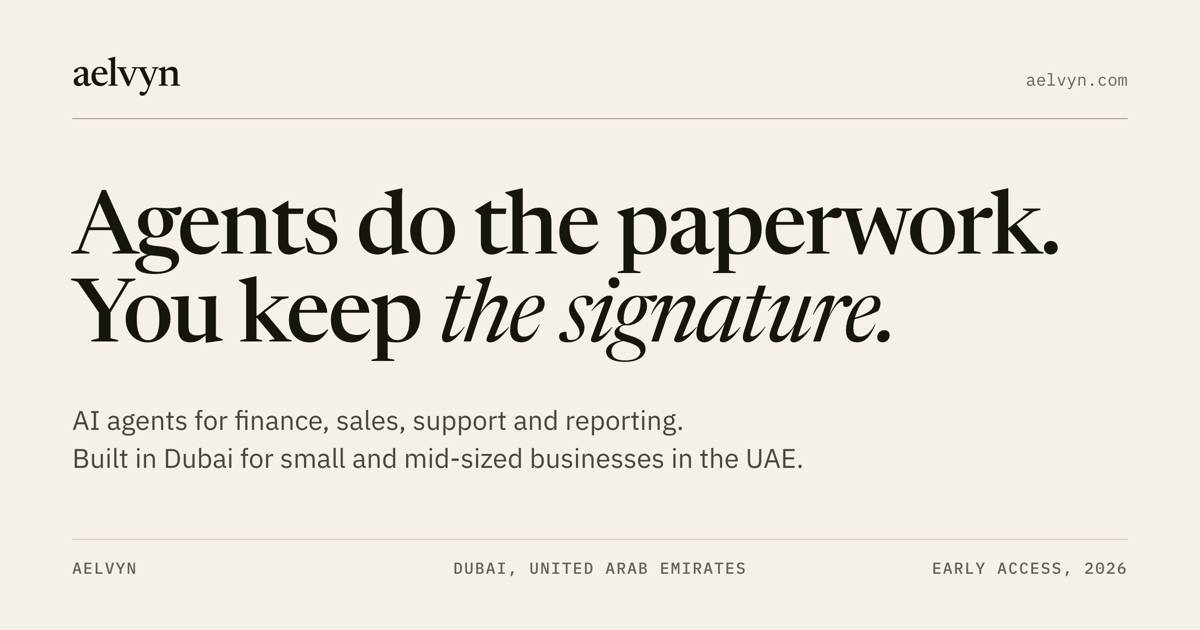
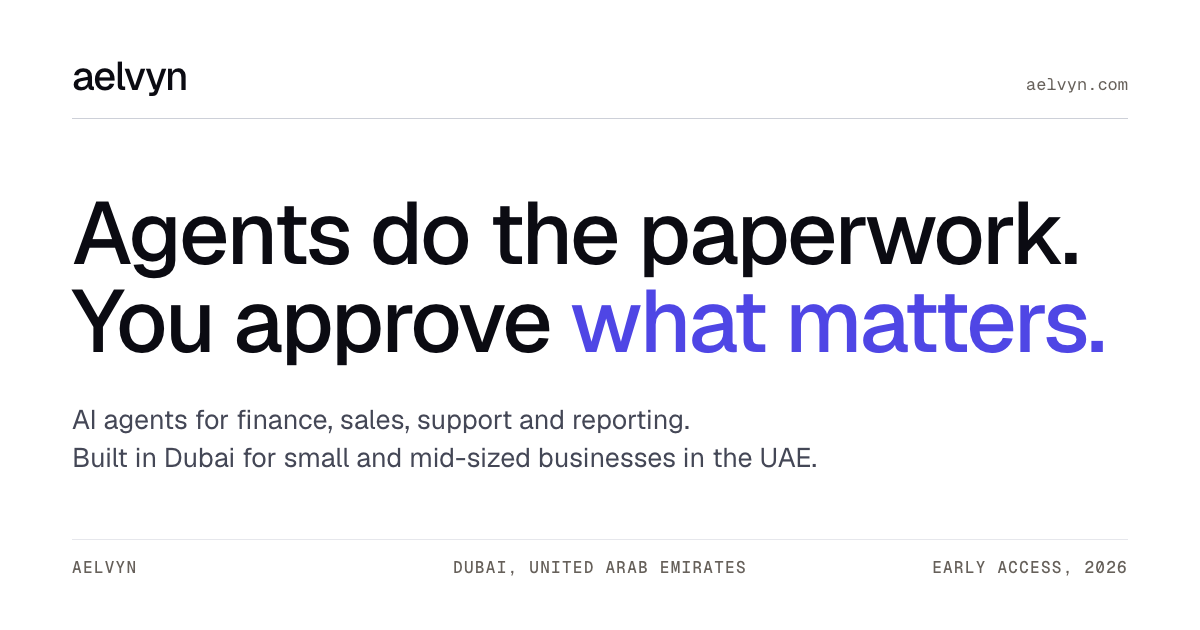
Restyle site to clean white and indigo
Replace the cream paper, serif and italic treatment with a white background,
Geist sans throughout, cool greys and Aelvyn indigo as the single accent.
Product previews become rounded software cards, the logo mark returns to the
header, and the hero now reads 'Agents do the paperwork. You approve what
matters.' Brand and social images re-rendered to match.

diff --git a/styles.css b/styles.css
@@ -1,25 +1,25 @@
 /* Aelvyn, aelvyn.com. One stylesheet for every page.
-   Direction: an editorial ledger. Warm paper, deep ink, a display serif, hairline rules, numbered entries.
-   Rules are the only containers. No shadows, no gradients, no icons, no cards. */
+   Direction: clean white and indigo. One sans family (Geist), cool greys, Aelvyn indigo as the only accent,
+   numbered sections and hairline rules for structure, product previews set as real software cards. */
 
 :root {
   /* PAPER (surfaces). Three values do all the elevation. No shadows, no gradients, no tints as decoration. */
-  --paper:    #F5F1EA; /* page background on every page. Warm, not yellow. */
-  --paper-2:  #EDE7DB; /* recessed band: sections 05 and 09, table header rows, form field backgrounds, blog row hover */
-  --paper-3:  #FBF9F5; /* raised sheet: the invoice document, the support reply card, the form sheet, the map frame */
+  --paper:    #FFFFFF; /* page background on every page. Warm, not yellow. */
+  --paper-2:  #F6F7F9; /* recessed band: sections 05 and 09, table header rows, form field backgrounds, blog row hover */
+  --paper-3:  #FFFFFF; /* raised sheet: the invoice document, the support reply card, the form sheet, the map frame */
 
   /* INK (text). */
-  --ink:      #17150F; /* headings, primary text, the section 03 background.      15.8:1 on paper */
-  --ink-2:    #4A463F; /* body copy.                                               9.2:1 on paper */
-  --ink-3:    #5A544E; /* mono labels, captions, eyebrows, footer small print.     6.6:1 on paper, 6.1:1 on paper-2, 7.1:1 on paper-3. Never below 12px. Never for paragraphs. */
-  --on-ink:   #F5F1EA; /* text on the ink section (the paper colour, so the inversion reads as the same sheet turned over) */
-  --on-ink-2: #BDB6A5; /* secondary text on ink.                                   7.8:1 on ink */
-  --ink-rule: #2A2721; /* hairlines on the ink section */
+  --ink:      #0B0B12; /* headings, primary text, the section 03 background.      15.8:1 on paper */
+  --ink-2:    #444756; /* body copy.                                               9.2:1 on paper */
+  --ink-3:    #5D6070; /* mono labels, captions, eyebrows, footer small print.     6.6:1 on paper, 6.1:1 on paper-2, 7.1:1 on paper-3. Never below 12px. Never for paragraphs. */
+  --on-ink:   #FFFFFF; /* text on the ink section (the paper colour, so the inversion reads as the same sheet turned over) */
+  --on-ink-2: #B4B7C6; /* secondary text on ink.                                   7.8:1 on ink */
+  --ink-rule: #262838; /* hairlines on the ink section */
 
   /* RULES. The only container on the site. */
-  --rule:        #D8D0C2; /* 1px hairlines between rows, inside tables, under head rows */
-  --rule-strong: #A89F8F; /* 1px under the header, above the footer, the sheet frame, link underlines */
-  --field-border: #8C836F; /* form field borders only: 3.3:1 on paper, 3.6:1 on paper-3, so the field edge meets WCAG 1.4.11 */
+  --rule:        #E6E7EC; /* 1px hairlines between rows, inside tables, under head rows */
+  --rule-strong: #CDD0D8; /* 1px under the header, above the footer, the sheet frame, link underlines */
+  --field-border: #8A8E9C; /* form field borders only: 3.3:1 on paper, 3.6:1 on paper-3, so the field edge meets WCAG 1.4.11 */
 
   /* ACCENT. THE COLOUR RULE: one deep ink blue, and it appears only where a person decides or must look.
      Permitted uses, and no others:
@@ -32,19 +32,19 @@
        7. the signature stroke under "the signature." in the hero: the one line the person draws
      Never as a background wash, tint, gradient, icon tile, eyebrow colour, link colour at rest, border or decoration.
      The wordmark is type only; no logo mark is rendered in the pages (the mark SVG remains the favicon). */
-  --accent:        #223B8F; /* ink blue. 8.9:1 on paper, 10.0:1 with white text */
-  --accent-ink:    #182666; /* hover and pressed state of accent elements */
-  --accent-on-ink: #AEB8F0; /* "Now" marker and the section number inside the ink section. 9.5:1 on ink */
+  --accent:        #4F46E5; /* ink blue. 8.9:1 on paper, 10.0:1 with white text */
+  --accent-ink:    #4338CA; /* hover and pressed state of accent elements */
+  --accent-on-ink: #A5B4FC; /* "Now" marker and the section number inside the ink section. 9.5:1 on ink */
 
   /* STATUS. Always paired with a word. Never a dot alone. Never used for decoration. */
   --approved:    #1E6B3C; --approved-bg: #E3EEE4; /* "Approved", "Done", "Matched" */
-  --pending:     #7A4F00; --pending-bg:  #F6E8C8; /* "Awaiting your approval", "In progress" */
+  --pending:     #7A4F00; --pending-bg:  #FEF3C7; /* "Awaiting your approval", "In progress" */
   --declined:    #8F2D2D; --declined-bg: #F3E3E1; /* "Returned", "Flagged" */
 
   /* TYPE FAMILIES */
-  --font-display: "Newsreader", Georgia, "Times New Roman", serif;
-  --font-text:    "IBM Plex Sans", -apple-system, "Segoe UI", Arial, sans-serif;
-  --font-mono:    "IBM Plex Mono", "SFMono-Regular", Menlo, Consolas, monospace;
+  --font-display: "Geist", -apple-system, "Segoe UI", Arial, sans-serif;
+  --font-text:    "Geist", -apple-system, "Segoe UI", Arial, sans-serif;
+  --font-mono:    "Geist Mono", "SFMono-Regular", Menlo, Consolas, monospace;
   --font-arabic:  "IBM Plex Sans Arabic", "Noto Naskh Arabic", "Geeza Pro", sans-serif;
 
   /* TYPE SCALE (size / line-height / tracking). Desktop values; phone values in the mobile section. */
@@ -74,7 +74,7 @@
   --container: 1200px; --gutter: 24px; --side: 24px;  /* phone: gutter 16px, side 16px */
 
   /* RADII. 2px on buttons, inputs, chips and sheets. 0 everywhere else. The logo mark is fixed. */
-  --radius: 2px;
+  --radius: 8px;
 
   /* MOTION. One duration, one curve. */
   --t: 240ms; --ease: cubic-bezier(0.2, 0.7, 0.2, 1);
@@ -1165,3 +1165,41 @@ blockquote { margin: 0; }
   .footer-bottom { flex-direction: column; }
   .footer-ar { text-align: right; }
 }
+
+
+/* ------------------------------------------------------------------ */
+/* Clean white + indigo layer                                          */
+/* ------------------------------------------------------------------ */
+body { font-feature-settings: "ss01", "cv11"; }
+h1, h2, h3, h4, .statement, .row .row-title.serif, .qa summary .q, .post-title { font-weight: 600; letter-spacing: -0.03em; }
+h3, .row .row-title.serif, .qa summary .q { letter-spacing: -0.015em; }
+h1.display { letter-spacing: -0.045em; line-height: 1.02; font-weight: 650; }
+h1.display em, .display em { font-style: normal; font-weight: inherit; color: var(--accent); }
+.pullquote, .closing { font-style: normal; font-weight: 600; letter-spacing: -0.02em; }
+
+/* Wordmark: the logo mark plus the word, like the favicon */
+.brand { display: inline-flex; align-items: center; gap: 10px; }
+.brand-mark { width: 28px; height: 28px; border-radius: 7px; display: block; flex: none; }
+.brand-word { font-weight: 650; letter-spacing: -0.04em; }
+.brand-word::after { content: none; }
+
+/* Buttons: solid indigo primary, quiet secondary */
+.btn { border-radius: 8px; }
+.btn-primary { box-shadow: 0 1px 2px rgba(16, 24, 40, .08), inset 0 1px 0 rgba(255, 255, 255, .12); }
+.btn-secondary { border-color: var(--rule-strong); background: #fff; }
+.btn-secondary:hover { border-color: var(--ink); }
+
+/* Product previews look like software, not paper */
+.sheet {
+  border: 1px solid var(--rule);
+  border-radius: 14px;
+  background: #fff;
+  box-shadow: 0 1px 2px rgba(16, 24, 40, .04), 0 12px 32px -8px rgba(16, 24, 40, .10);
+}
+.section-ink .sheet, .ink .sheet { box-shadow: none; }
+
+/* Recessed bands are cool grey, not beige */
+.band, .section-alt { background: var(--paper-2); }
+
+/* Masthead row: quieter, less editorial */
+.masthead { letter-spacing: 0.04em; color: var(--ink-3); }

diff --git a/index.html b/index.html
@@ -9,13 +9,13 @@
   <link rel="icon" href="assets/logo-mark.svg" type="image/svg+xml">
   <meta property="og:type" content="website">
   <meta property="og:title" content="Aelvyn, AI agents for business operations in the UAE">
-  <meta property="og:description" content="Agents do the paperwork. You keep the signature. AI agents for finance, sales, support and reporting, built in Dubai for small and mid-sized businesses.">
+  <meta property="og:description" content="Agents do the paperwork. You approve what matters. AI agents for finance, sales, support and reporting, built in Dubai for small and mid-sized businesses.">
   <meta property="og:url" content="https://aelvyn.com/">
   <meta property="og:image" content="https://aelvyn.com/assets/og-image.png">
   <meta name="twitter:card" content="summary_large_image">
   <link rel="preconnect" href="https://fonts.googleapis.com">
   <link rel="preconnect" href="https://fonts.gstatic.com" crossorigin>
-  <link href="https://fonts.googleapis.com/css2?family=Newsreader:ital,opsz,wght@0,6..72,400..600;1,6..72,400&family=IBM+Plex+Sans:wght@400;500&family=IBM+Plex+Mono:wght@400;500&family=IBM+Plex+Sans+Arabic:wght@400;500&display=swap" rel="stylesheet">
+  <link href="https://fonts.googleapis.com/css2?family=Geist:wght@400;500;600;700&family=Geist+Mono:wght@400;500&family=IBM+Plex+Sans+Arabic:wght@400;500&display=swap" rel="stylesheet">
   <link rel="stylesheet" href="styles.css">
   <script>document.documentElement.classList.replace('no-js','js');</script>
   <script type="application/ld+json">
@@ -28,7 +28,7 @@
 <header class="site-header">
   <div class="container header-inner">
     <a class="brand" href="index.html" aria-label="Aelvyn, home">
-      <span class="brand-word">aelvyn</span>
+      <img class="brand-mark" src="assets/logo-mark.svg" alt="" width="28" height="28"><span class="brand-word">aelvyn</span>
     </a>
     <nav class="nav" aria-label="Site">
       <ul class="nav-list">
@@ -67,7 +67,7 @@
 
       <div class="grid hero-grid">
         <div class="g1-7 hero-main">
-          <h1 class="display" id="hero-title"><span class="nw">Agents do</span><br><span class="nw">the paperwork.</span><br>You keep <em>the signature.<svg class="sig-stroke" viewBox="0 0 320 40" preserveAspectRatio="none" aria-hidden="true" focusable="false"><path d="M2 23 C 48 31, 96 17, 150 21 C 196 24, 236 31, 272 22 C 290 17, 304 11, 318 5"/></svg></em></h1>
+          <h1 class="display" id="hero-title"><span class="nw">Agents do</span><br><span class="nw">the paperwork.</span><br>You approve <em>what matters.</em></h1>
           <p class="lead">Aelvyn builds AI agents for the everyday operations of small and mid-sized businesses in the UAE and GCC. The agent prepares the work: supplier invoices, lead <span class="nw">follow-ups</span>, customer questions in English and Arabic, the weekly numbers. A person approves anything that moves money, changes a record or reaches a&nbsp;customer.</p>
           <div class="btn-row">
             <a class="btn btn-primary" href="#early-access">Request early access</a>
@@ -685,7 +685,7 @@
     <div class="grid footer-grid">
       <div class="g1-4 footer-col">
         <a class="brand" href="index.html" aria-label="Aelvyn, home">
-          <span class="brand-word">aelvyn</span>
+          <img class="brand-mark" src="assets/logo-mark.svg" alt="" width="28" height="28"><span class="brand-word">aelvyn</span>
         </a>
         <p class="footer-ar" lang="ar" dir="rtl">دبي، الإمارات العربية المتحدة</p>
       </div>

diff --git a/404.html b/404.html
@@ -14,7 +14,7 @@
   <meta name="twitter:card" content="summary_large_image">
   <link rel="preconnect" href="https://fonts.googleapis.com">
   <link rel="preconnect" href="https://fonts.gstatic.com" crossorigin>
-  <link href="https://fonts.googleapis.com/css2?family=Newsreader:ital,opsz,wght@0,6..72,400..600;1,6..72,400&family=IBM+Plex+Sans:wght@400;500&family=IBM+Plex+Mono:wght@400;500&family=IBM+Plex+Sans+Arabic:wght@400;500&display=swap" rel="stylesheet">
+  <link href="https://fonts.googleapis.com/css2?family=Geist:wght@400;500;600;700&family=Geist+Mono:wght@400;500&family=IBM+Plex+Sans+Arabic:wght@400;500&display=swap" rel="stylesheet">
   <!-- Root-relative paths on purpose: .htaccess serves this file as ErrorDocument 404 from any URL (for example /notes/2026/missing-post), so relative paths would not resolve. Check it over HTTP; opened as a file:// it has no stylesheet. -->
   <link rel="stylesheet" href="/styles.css">
   <script>document.documentElement.classList.replace('no-js','js');</script>
@@ -28,7 +28,7 @@
 <header class="site-header">
   <div class="container header-inner">
     <a class="brand" href="/index.html" aria-label="Aelvyn, home">
-      <span class="brand-word">aelvyn</span>
+      <img class="brand-mark" src="/assets/logo-mark.svg" alt="" width="28" height="28"><span class="brand-word">aelvyn</span>
     </a>
     <nav class="nav" aria-label="Site">
       <ul class="nav-list">
@@ -110,7 +110,7 @@
     <div class="grid footer-grid">
       <div class="g1-4 footer-col">
         <a class="brand" href="/index.html" aria-label="Aelvyn, home">
-          <span class="brand-word">aelvyn</span>
+          <img class="brand-mark" src="/assets/logo-mark.svg" alt="" width="28" height="28"><span class="brand-word">aelvyn</span>
         </a>
         <p class="footer-ar" lang="ar" dir="rtl">دبي، الإمارات العربية المتحدة</p>
       </div>

diff --git a/about.html b/about.html
@@ -15,7 +15,7 @@
   <meta name="twitter:card" content="summary_large_image">
   <link rel="preconnect" href="https://fonts.googleapis.com">
   <link rel="preconnect" href="https://fonts.gstatic.com" crossorigin>
-  <link href="https://fonts.googleapis.com/css2?family=Newsreader:ital,opsz,wght@0,6..72,400..600;1,6..72,400&family=IBM+Plex+Sans:wght@400;500&family=IBM+Plex+Mono:wght@400;500&family=IBM+Plex+Sans+Arabic:wght@400;500&display=swap" rel="stylesheet">
+  <link href="https://fonts.googleapis.com/css2?family=Geist:wght@400;500;600;700&family=Geist+Mono:wght@400;500&family=IBM+Plex+Sans+Arabic:wght@400;500&display=swap" rel="stylesheet">
   <link rel="stylesheet" href="styles.css">
   <script>document.documentElement.classList.replace('no-js','js');</script>
   <script type="application/ld+json">
@@ -28,7 +28,7 @@
 <header class="site-header">
   <div class="container header-inner">
     <a class="brand" href="index.html" aria-label="Aelvyn, home">
-      <span class="brand-word">aelvyn</span>
+      <img class="brand-mark" src="assets/logo-mark.svg" alt="" width="28" height="28"><span class="brand-word">aelvyn</span>
     </a>
     <nav class="nav" aria-label="Site">
       <ul class="nav-list">
@@ -220,7 +220,7 @@
     <div class="grid footer-grid">
       <div class="g1-4 footer-col">
         <a class="brand" href="index.html" aria-label="Aelvyn, home">
-          <span class="brand-word">aelvyn</span>
+          <img class="brand-mark" src="assets/logo-mark.svg" alt="" width="28" height="28"><span class="brand-word">aelvyn</span>
         </a>
         <p class="footer-ar" lang="ar" dir="rtl">دبي، الإمارات العربية المتحدة</p>
       </div>

diff --git a/blog-back-office-tasks-ai-agents.html b/blog-back-office-tasks-ai-agents.html
@@ -16,7 +16,7 @@
   <meta name="twitter:card" content="summary_large_image">
   <link rel="preconnect" href="https://fonts.googleapis.com">
   <link rel="preconnect" href="https://fonts.gstatic.com" crossorigin>
-  <link href="https://fonts.googleapis.com/css2?family=Newsreader:ital,opsz,wght@0,6..72,400..600;1,6..72,400&family=IBM+Plex+Sans:wght@400;500&family=IBM+Plex+Mono:wght@400;500&family=IBM+Plex+Sans+Arabic:wght@400;500&display=swap" rel="stylesheet">
+  <link href="https://fonts.googleapis.com/css2?family=Geist:wght@400;500;600;700&family=Geist+Mono:wght@400;500&family=IBM+Plex+Sans+Arabic:wght@400;500&display=swap" rel="stylesheet">
   <link rel="stylesheet" href="styles.css">
   <script>document.documentElement.classList.replace('no-js','js');</script>
   <script type="application/ld+json">
@@ -32,7 +32,7 @@
 <header class="site-header">
   <div class="container header-inner">
     <a class="brand" href="index.html" aria-label="Aelvyn, home">
-      <span class="brand-word">aelvyn</span>
+      <img class="brand-mark" src="assets/logo-mark.svg" alt="" width="28" height="28"><span class="brand-word">aelvyn</span>
     </a>
     <nav class="nav" aria-label="Site">
       <ul class="nav-list">
@@ -199,7 +199,7 @@
     <div class="grid footer-grid">
       <div class="g1-4 footer-col">
         <a class="brand" href="index.html" aria-label="Aelvyn, home">
-          <span class="brand-word">aelvyn</span>
+          <img class="brand-mark" src="assets/logo-mark.svg" alt="" width="28" height="28"><span class="brand-word">aelvyn</span>
         </a>
         <p class="footer-ar" lang="ar" dir="rtl">دبي، الإمارات العربية المتحدة</p>
       </div>

diff --git a/blog-why-our-agents-ask-first.html b/blog-why-our-agents-ask-first.html
@@ -16,7 +16,7 @@
   <meta name="twitter:card" content="summary_large_image">
   <link rel="preconnect" href="https://fonts.googleapis.com">
   <link rel="preconnect" href="https://fonts.gstatic.com" crossorigin>
-  <link href="https://fonts.googleapis.com/css2?family=Newsreader:ital,opsz,wght@0,6..72,400..600;1,6..72,400&family=IBM+Plex+Sans:wght@400;500&family=IBM+Plex+Mono:wght@400;500&family=IBM+Plex+Sans+Arabic:wght@400;500&display=swap" rel="stylesheet">
+  <link href="https://fonts.googleapis.com/css2?family=Geist:wght@400;500;600;700&family=Geist+Mono:wght@400;500&family=IBM+Plex+Sans+Arabic:wght@400;500&display=swap" rel="stylesheet">
   <link rel="stylesheet" href="styles.css">
   <script>document.documentElement.classList.replace('no-js','js');</script>
   <script type="application/ld+json">
@@ -32,7 +32,7 @@
 <header class="site-header">
   <div class="container header-inner">
     <a class="brand" href="index.html" aria-label="Aelvyn, home">
-      <span class="brand-word">aelvyn</span>
+      <img class="brand-mark" src="assets/logo-mark.svg" alt="" width="28" height="28"><span class="brand-word">aelvyn</span>
     </a>
     <nav class="nav" aria-label="Site">
       <ul class="nav-list">
@@ -178,7 +178,7 @@
     <div class="grid footer-grid">
       <div class="g1-4 footer-col">
         <a class="brand" href="index.html" aria-label="Aelvyn, home">
-          <span class="brand-word">aelvyn</span>
+          <img class="brand-mark" src="assets/logo-mark.svg" alt="" width="28" height="28"><span class="brand-word">aelvyn</span>
         </a>
         <p class="footer-ar" lang="ar" dir="rtl">دبي، الإمارات العربية المتحدة</p>
       </div>

diff --git a/blog.html b/blog.html
@@ -15,7 +15,7 @@
   <meta name="twitter:card" content="summary_large_image">
   <link rel="preconnect" href="https://fonts.googleapis.com">
   <link rel="preconnect" href="https://fonts.gstatic.com" crossorigin>
-  <link href="https://fonts.googleapis.com/css2?family=Newsreader:ital,opsz,wght@0,6..72,400..600;1,6..72,400&family=IBM+Plex+Sans:wght@400;500&family=IBM+Plex+Mono:wght@400;500&family=IBM+Plex+Sans+Arabic:wght@400;500&display=swap" rel="stylesheet">
+  <link href="https://fonts.googleapis.com/css2?family=Geist:wght@400;500;600;700&family=Geist+Mono:wght@400;500&family=IBM+Plex+Sans+Arabic:wght@400;500&display=swap" rel="stylesheet">
   <link rel="stylesheet" href="styles.css">
   <script>document.documentElement.classList.replace('no-js','js');</script>
   <script type="application/ld+json">
@@ -28,7 +28,7 @@
 <header class="site-header">
   <div class="container header-inner">
     <a class="brand" href="index.html" aria-label="Aelvyn, home">
-      <span class="brand-word">aelvyn</span>
+      <img class="brand-mark" src="assets/logo-mark.svg" alt="" width="28" height="28"><span class="brand-word">aelvyn</span>
     </a>
     <nav class="nav" aria-label="Site">
       <ul class="nav-list">
@@ -107,7 +107,7 @@
     <div class="grid footer-grid">
       <div class="g1-4 footer-col">
         <a class="brand" href="index.html" aria-label="Aelvyn, home">
-          <span class="brand-word">aelvyn</span>
+          <img class="brand-mark" src="assets/logo-mark.svg" alt="" width="28" height="28"><span class="brand-word">aelvyn</span>
         </a>
         <p class="footer-ar" lang="ar" dir="rtl">دبي، الإمارات العربية المتحدة</p>
       </div>

diff --git a/contact.html b/contact.html
@@ -15,7 +15,7 @@
   <meta name="twitter:card" content="summary_large_image">
   <link rel="preconnect" href="https://fonts.googleapis.com">
   <link rel="preconnect" href="https://fonts.gstatic.com" crossorigin>
-  <link href="https://fonts.googleapis.com/css2?family=Newsreader:ital,opsz,wght@0,6..72,400..600;1,6..72,400&family=IBM+Plex+Sans:wght@400;500&family=IBM+Plex+Mono:wght@400;500&family=IBM+Plex+Sans+Arabic:wght@400;500&display=swap" rel="stylesheet">
+  <link href="https://fonts.googleapis.com/css2?family=Geist:wght@400;500;600;700&family=Geist+Mono:wght@400;500&family=IBM+Plex+Sans+Arabic:wght@400;500&display=swap" rel="stylesheet">
   <link rel="stylesheet" href="styles.css">
   <script>document.documentElement.classList.replace('no-js','js');</script>
   <script type="application/ld+json">
@@ -28,7 +28,7 @@
 <header class="site-header">
   <div class="container header-inner">
     <a class="brand" href="index.html" aria-label="Aelvyn, home">
-      <span class="brand-word">aelvyn</span>
+      <img class="brand-mark" src="assets/logo-mark.svg" alt="" width="28" height="28"><span class="brand-word">aelvyn</span>
     </a>
     <nav class="nav" aria-label="Site">
       <ul class="nav-list">
@@ -150,7 +150,7 @@
     <div class="grid footer-grid">
       <div class="g1-4 footer-col">
         <a class="brand" href="index.html" aria-label="Aelvyn, home">
-          <span class="brand-word">aelvyn</span>
+          <img class="brand-mark" src="assets/logo-mark.svg" alt="" width="28" height="28"><span class="brand-word">aelvyn</span>
         </a>
         <p class="footer-ar" lang="ar" dir="rtl">دبي، الإمارات العربية المتحدة</p>
       </div>

diff --git a/privacy.html b/privacy.html
@@ -15,7 +15,7 @@
   <meta name="twitter:card" content="summary_large_image">
   <link rel="preconnect" href="https://fonts.googleapis.com">
   <link rel="preconnect" href="https://fonts.gstatic.com" crossorigin>
-  <link href="https://fonts.googleapis.com/css2?family=Newsreader:ital,opsz,wght@0,6..72,400..600;1,6..72,400&family=IBM+Plex+Sans:wght@400;500&family=IBM+Plex+Mono:wght@400;500&family=IBM+Plex+Sans+Arabic:wght@400;500&display=swap" rel="stylesheet">
+  <link href="https://fonts.googleapis.com/css2?family=Geist:wght@400;500;600;700&family=Geist+Mono:wght@400;500&family=IBM+Plex+Sans+Arabic:wght@400;500&display=swap" rel="stylesheet">
   <link rel="stylesheet" href="styles.css">
   <script>document.documentElement.classList.replace('no-js','js');</script>
   <script type="application/ld+json">
@@ -28,7 +28,7 @@
 <header class="site-header">
   <div class="container header-inner">
     <a class="brand" href="index.html" aria-label="Aelvyn, home">
-      <span class="brand-word">aelvyn</span>
+      <img class="brand-mark" src="assets/logo-mark.svg" alt="" width="28" height="28"><span class="brand-word">aelvyn</span>
     </a>
     <nav class="nav" aria-label="Site">
       <ul class="nav-list">
@@ -217,7 +217,7 @@
     <div class="grid footer-grid">
       <div class="g1-4 footer-col">
         <a class="brand" href="index.html" aria-label="Aelvyn, home">
-          <span class="brand-word">aelvyn</span>
+          <img class="brand-mark" src="assets/logo-mark.svg" alt="" width="28" height="28"><span class="brand-word">aelvyn</span>
         </a>
         <p class="footer-ar" lang="ar" dir="rtl">دبي، الإمارات العربية المتحدة</p>
       </div>

diff --git a/terms.html b/terms.html
@@ -15,7 +15,7 @@
   <meta name="twitter:card" content="summary_large_image">
   <link rel="preconnect" href="https://fonts.googleapis.com">
   <link rel="preconnect" href="https://fonts.gstatic.com" crossorigin>
-  <link href="https://fonts.googleapis.com/css2?family=Newsreader:ital,opsz,wght@0,6..72,400..600;1,6..72,400&family=IBM+Plex+Sans:wght@400;500&family=IBM+Plex+Mono:wght@400;500&family=IBM+Plex+Sans+Arabic:wght@400;500&display=swap" rel="stylesheet">
+  <link href="https://fonts.googleapis.com/css2?family=Geist:wght@400;500;600;700&family=Geist+Mono:wght@400;500&family=IBM+Plex+Sans+Arabic:wght@400;500&display=swap" rel="stylesheet">
   <link rel="stylesheet" href="styles.css">
   <script>document.documentElement.classList.replace('no-js','js');</script>
   <script type="application/ld+json">
@@ -28,7 +28,7 @@
 <header class="site-header">
   <div class="container header-inner">
     <a class="brand" href="index.html" aria-label="Aelvyn, home">
-      <span class="brand-word">aelvyn</span>
+      <img class="brand-mark" src="assets/logo-mark.svg" alt="" width="28" height="28"><span class="brand-word">aelvyn</span>
     </a>
     <nav class="nav" aria-label="Site">
       <ul class="nav-list">
@@ -216,7 +216,7 @@
     <div class="grid footer-grid">
       <div class="g1-4 footer-col">
         <a class="brand" href="index.html" aria-label="Aelvyn, home">
-          <span class="brand-word">aelvyn</span>
+          <img class="brand-mark" src="assets/logo-mark.svg" alt="" width="28" height="28"><span class="brand-word">aelvyn</span>
         </a>
         <p class="footer-ar" lang="ar" dir="rtl">دبي، الإمارات العربية المتحدة</p>
       </div>
